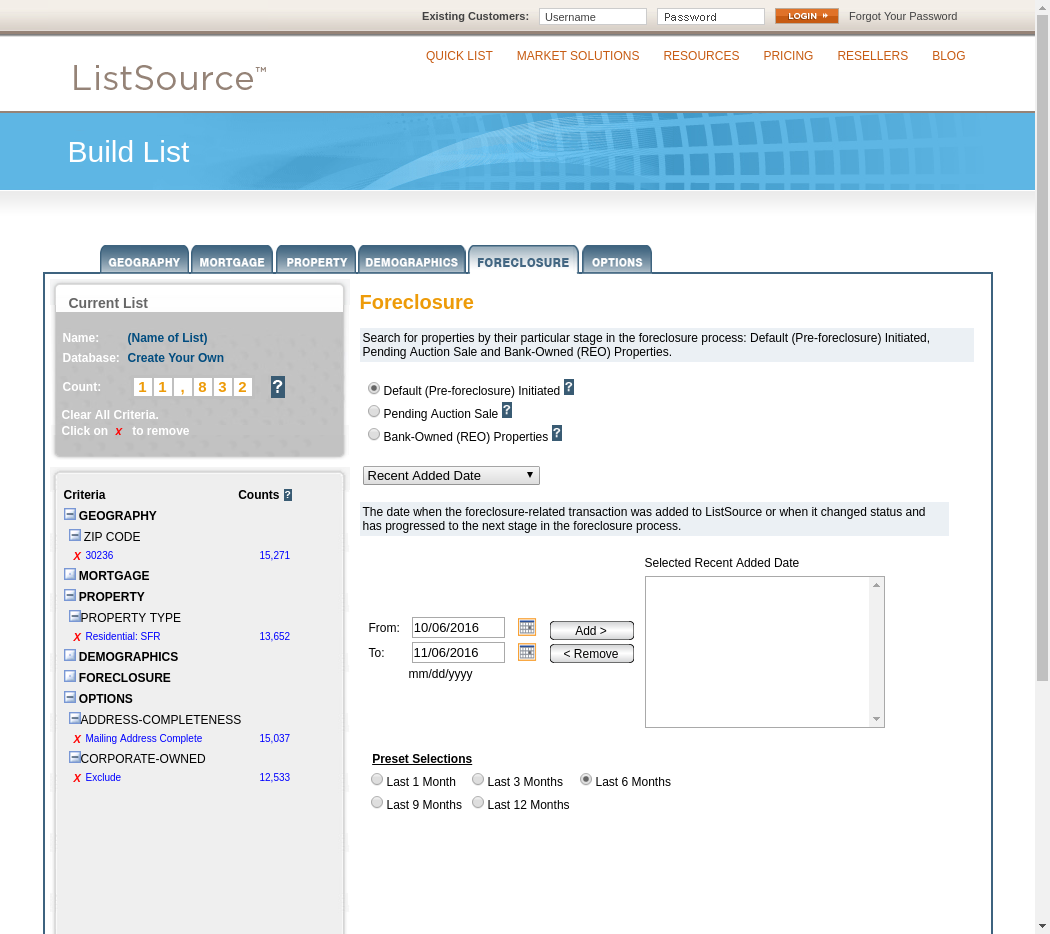
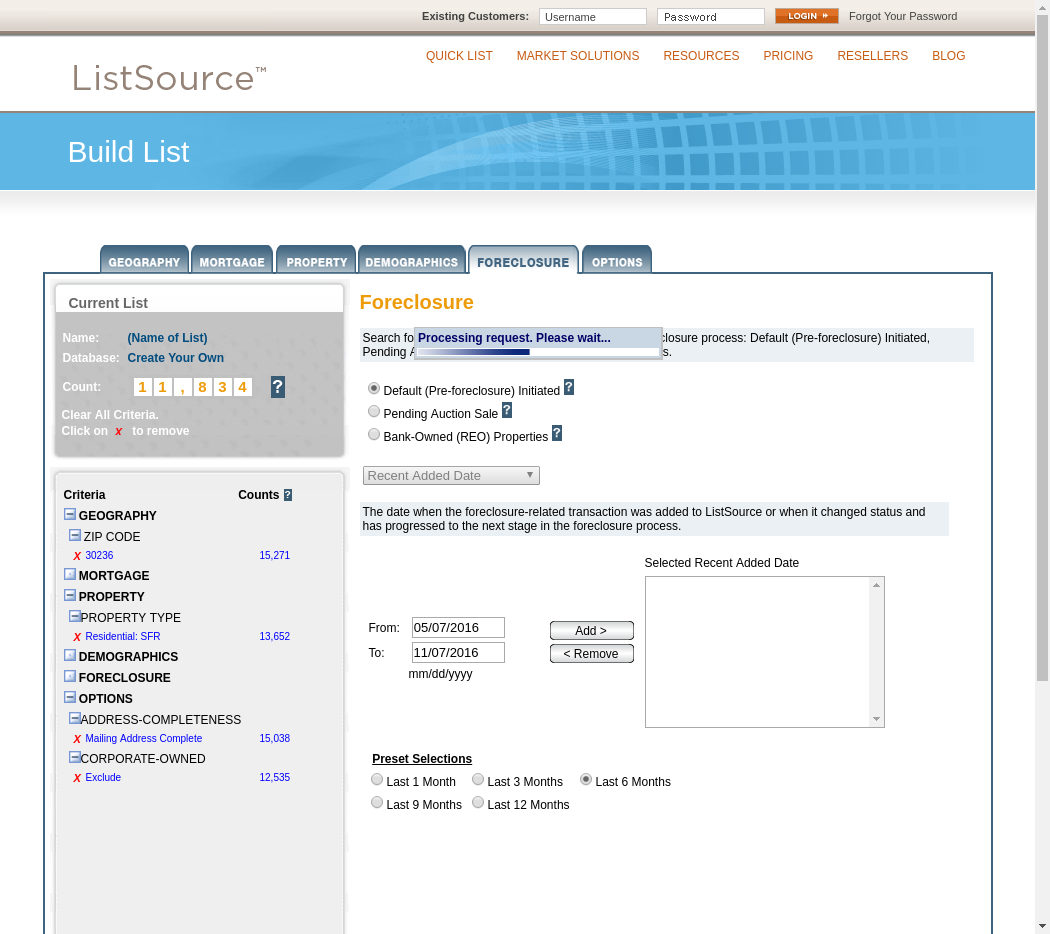
parse listsource

diff --git a/src/App/Services/ParserListsource.php b/src/App/Services/ParserListsource.php
@@ -19,11 +19,12 @@ class ParserListsource extends Parser
 
     public function parse()
     {
-        $driver = new Selenium2Driver('chrome', null, 'http://192.168.99.100:32786/wd/hub');
-        $this->session = new Session($driver);
-        $this->session->start();
+        $this->createSession();
         $this->session->visit($this->url);
         $page = $this->session->getPage();
+
+        $result['p'] = $this->matrixResult['p'];
+        $result['n'] = $this->matrixResult['n'];
 
         $as = $page->findAll('xpath', '//a');
 
@@ -33,19 +34,17 @@ class ParserListsource extends Parser
             }
         }
 
-        $locator = $this->waitUntilExist($page, 'locator'); // working javascript
-        $locator->selectOption("ZIP_CODE");
+        $this->waitUntilExist($page, 'locator')->selectOption("ZIP_CODE"); // working javascript
 
         $zipTextArea = $this->waitUntilExist($page, 'zipTextArea'); // working javascript
         $zipTextArea->setValue($this->zipCode);
 
-        $button = $page->find('xpath', '//button');
-        $button->click(); // add zip code
-
+        $this->waitUntilDisabled($page->find('named', ['id_or_name', 'locator_prop']));
+        $this->scrin(0);
+        $page->find('xpath', '//button')->click(); // add zip code
         $this->waitUntilExist($page, 'CRITERIA_ZIP_CODE_'.$this->zipCode); // working javascript
 
-        $propertyLink = $page->find('named', ['id_or_name', 'img_PROPERTY']);
-        $propertyLink->click(); // click property in left menu
+        $page->find('named', ['id_or_name', 'img_PROPERTY'])->click(); // click property in left menu
         $this->session->wait(1);
 
         $page->find('named', ['id_or_name', 'PROPERTY_PAGE_IMG'])->click(); // click tab property
@@ -54,7 +53,8 @@ class ParserListsource extends Parser
         $page->find('named', ['id_or_name', 'locator_prop'])->selectOption("PROPERTY_TYPE");
 
         $locatorAvailableList_prop = $this->waitUntilExist($page, 'locatorAvailableList_prop'); // working javascript
-        $this->session->wait(5);
+        $this->waitUntilDisabled($locatorAvailableList_prop);
+        $this->session->wait(10);
         $this->scrin(1);
         $locatorAvailableList_prop->selectOption(16, true);
 
@@ -77,29 +77,26 @@ class ParserListsource extends Parser
         }
 
         $result['f'] = $countNewNew; //F in excel
-
 ////////////////////////////////////////////////////////////////////////////////////////////////////////////////////////
 
-        $foreClosureLink = $page->find('named', ['id_or_name', 'FORECLOSURE_PAGE_IMG'])->click();
+        $page->find('named', ['id_or_name', 'FORECLOSURE_PAGE_IMG'])->click();
         $this->session->wait(1);
 
-        $foreClosureSelect = $page->find('named', ['id_or_name', 'locator_foreclosure'])->selectOption('FORE_D_PUB_DT'); // select recent added date
+        $foreClosureSelect = $page->find('named', ['id_or_name', 'locator_foreclosure']);
+        $foreClosureSelect->selectOption('FORE_D_PUB_DT'); // select recent added date
 
         $this->waitUntilExist($page, 'last6_FORE_D_PUB_DT'); // working javascript
-
         $this->session->executeScript("document.getElementById('last6_FORE_D_PUB_DT').click()");
+        $this->scrin(2);
         $this->waitUntilDisabled($foreClosureSelect);
 
         $page->find('named', ['id_or_name', 'mort_add_FORE_D_PUB_DT'])->click();
 
         $dateInputFromValue = $page->find('named', ['id_or_name', 'fromValue_FORE_D_PUB_DT'])->getValue();
         $dateInputToValue = $page->find('named', ['id_or_name', 'toValue_FORE_D_PUB_DT'])->getValue();
-
         $this->waitUntilExist($page, 'CRITERIA_FORE_D_PUB_DT_'.$dateInputFromValue.'-'.$dateInputToValue); // working javascript
 
-        $count = $page->find('named', ['id_or_name', 'td_0']);
-        $result['h'] = $count->getText();
-
+        $result['h'] = $this->parceCount($page);
 ////////////////////////////////////////////////////////////////////////////////////////////////////////////////////////
         $this->scrin(3);
         $bankOwned = $page->find('named', ['id_or_name', 'foreClosurePosition']);
@@ -107,25 +104,21 @@ class ParserListsource extends Parser
 
         $foreClosureSelect = $page->find('named', ['id_or_name', 'locator_foreclosure']);
         $this->waitUntilDisabled($foreClosureSelect);
-
         $foreClosureSelect->selectOption('FORE_R_PUB_DT'); // select recent added date
 
         $this->waitUntilExist($page, 'last6_FORE_R_PUB_DT'); // working javascript
-
-        $this->session->executeScript("document.getElementById('last6_FORE_R_PUB_DT').click()")->click();
+        $this->session->executeScript("document.getElementById('last6_FORE_R_PUB_DT').click()");
         $this->waitUntilDisabled($foreClosureSelect);
-
-        $page->find('named', ['id_or_name', 'mort_add_FORE_R_PUB_DT']);
+        $this->scrin(4);
+        $page->find('named', ['id_or_name', 'mort_add_FORE_R_PUB_DT'])->click();
 
         $dateInputFromValue = $page->find('named', ['id_or_name', 'fromValue_FORE_R_PUB_DT'])->getValue();
         $dateInputToValue = $page->find('named', ['id_or_name', 'toValue_FORE_R_PUB_DT'])->getValue();
         $this->scrin(5);
         $this->waitUntilExist($page, 'CRITERIA_FORE_R_PUB_DT_'.$dateInputFromValue.'-'.$dateInputToValue); // working javascript
 
-        $td0 = $page->find('named', ['id_or_name', 'td_0']);
-        $td1 = $page->find('named', ['id_or_name', 'td_1']);
-        $result['k'] = $td0->getText().$td1->getText();
-
+        $this->scrin("5-1");
+        $result['k'] = $this->parceCount($page);
 ////////////////////////////////////////////////////////////////////////////////////////////////////////////////////////
         $this->scrin(6);
         $default = $page->find('named', ['id_or_name', 'foreClosurePosition']);
@@ -134,43 +127,117 @@ class ParserListsource extends Parser
         $foreClosureSelect = $page->find('named', ['id_or_name', 'locator_foreclosure']);
         $this->waitUntilDisabled($foreClosureSelect);
 
-        $foreClosureLink = $page->find('named', ['id_or_name', 'OPTIONS_PAGE_IMG'])->click();
+        $page->find('named', ['id_or_name', 'OPTIONS_PAGE_IMG'])->click();
         $this->session->wait(1);
 
         $ownerOccupiedStatus = $page->find('named', ['id_or_name', 'ownerOption']);
         $ownerOccupiedStatus->selectOption('OPT_EXCLUDE_OWNER_OCCUPIED');
 
-        $this->waitUntilExist($page, 'CRITERIA_OWNER-OCCUPIED'); // working javascript
+        $this->waitUntilExist($page, 'CRITERIA_OWNER-OCCUPIED_Absentee Owned In-State'); // working javascript CRITERIA_OWNER-OCCUPIED
+
+        $this->session->wait(1);
+        $this->scrin('6-1');
+        $property = $page->find('named', ['id_or_name', 'PROPERTY_PAGE_IMG']);
+        $this->scrin('6-2');
+        $property->click();
+        $this->session->wait(1);
 
         $criteria = $page->find('named', ['id_or_name', 'locator_prop']);
+        $this->waitUntilDisabled($criteria);
         $this->scrin(7);
         $criteria->selectOption("EQUITY_PCT");
 
         $this->waitUntilExist($page, 'fromValue_prop'); // working javascript
+        $locator_prop = $page->find('named', ['id_or_name', 'locator_prop']);
+        $this->waitUntilDisabled($locator_prop); // working javascript
 
+        $this->scrin(8);
         $page->find('named', ['id_or_name', 'fromValue_prop'])->setValue(99);
         $page->find('named', ['id_or_name', 'toValue_prop'])->setValue(100);
         $page->find('named', ['id_or_name', 'addButton_prop'])->click();
 
-        $this->waitUntilExist($page, 'CRITERIA_EQUITY_PCT'); // working javascript
+        $this->scrin('8-1');
+        $this->waitUntilExist($page, 'CRITERIA_EQUITY_PCT_99 to 100 %'); // working javascript
 
-        $page->find('named', ['id_or_name', 'locator_prop'])->selectOption('LAST_SALE_DATE');
+        $locator_prop = $page->find('named', ['id_or_name', 'locator_prop']);
+        $this->waitUntilDisabled($locator_prop);
+        $locator_prop->selectOption('LAST_SALE_DATE');
 
+        $this->scrin('8-2');
         $this->waitUntilExist($page, 'selBox_LAST_SALE_DATE'); // working javascript
+        $this->scrin(9);
 
         $this->session->executeScript("document.getElementById('last6_LAST_SALE_DATE').click()");
-        $page->clickLink('prop_add');
+        $this->waitUntilDisabled($locator_prop);
+        $this->scrin(10);
+        $page->find('named', ['id_or_name', 'prop_add'])->click();
 
-        $this->waitUntilExist($page, 'CRITERIA_LAST_SALE_DATE'); // working javascript
+        $dateInputFromValue = $page->find('named', ['id_or_name', 'fromValue_LAST_SALE_DATE'])->getValue();
+        $dateInputToValue = $page->find('named', ['id_or_name', 'toValue_LAST_SALE_DATE'])->getValue();
+        $this->waitUntilExist($page, 'CRITERIA_LAST_SALE_DATE_'.$dateInputFromValue.'-'.$dateInputToValue); // working javascript
+        $this->scrin(11);
 
-        $count = $page->find('named', ['id_or_name', 'td_0']);
-        $result['c'] = $count->getText();
-
-        file_put_contents("scrin!!!.png", $this->session->getScreenshot());
-
-
+        $result['c'] = $this->parceCount($page);
 ////////////////////////////////////////////////////////////////////////////////////////////////////////////////////////
+        $this->removeCriteria($page, 'DEL_ID_CRITERIA_EQUITY_PCT_99 to 100 %');
+        $this->scrin(12);
 
+        $this->removeCriteria($page, 'DEL_ID_CRITERIA_LAST_SALE_DATE_'.$dateInputFromValue.'-'.$dateInputToValue);
+        $this->scrin(13);
+
+        $this->removeCriteria($page, 'DEL_ID_CRITERIA_OWNER-OCCUPIED_Absentee Owned In-State');
+        $this->scrin(14);
+
+        $this->removeCriteria($page, 'DEL_ID_CRITERIA_OWNER-OCCUPIED_Absentee Owned Out-of-State');
+        $this->scrin(15);
+
+        $criteria = $page->find('named', ['id_or_name', 'locator_prop']);
+        $this->waitUntilDisabled($criteria);
+        $this->scrin(16);
+        $criteria->selectOption("EQUITY_PCT");
+
+        $this->waitUntilExist($page, 'fromValue_prop'); // working javascript
+        $locator_prop = $page->find('named', ['id_or_name', 'locator_prop']);
+        $this->waitUntilDisabled($locator_prop); // working javascript
+
+        $selectEqu = $page->find('named', ['id_or_name', 'locatorAvailableList_prop']);
+        $selectEqu->selectOption('4-4', true);
+        $selectEqu->selectOption('5-5', true);
+        $selectEqu->selectOption('6-6', true);
+        $selectEqu->selectOption('7-7', true);
+        $selectEqu->selectOption('8-8', true);
+        $selectEqu->selectOption('9-9', true);
+        $selectEqu->selectOption('10-10', true);
+        $page->find('named', ['id_or_name', 'prop_add'])->click();
+
+        $this->scrin(17);
+        $this->waitUntilDisabled($locator_prop);
+        $criteria->selectOption("CURRENT_HOME_VALUE");
+        $this->waitUntilDisabled($locator_prop);
+
+        $page->find('named', ['id_or_name', 'fromValue_prop'])->setValue(1);
+        $page->find('named', ['id_or_name', 'toValue_prop'])->setValue($result['p']);
+        $page->find('named', ['id_or_name', 'addButton_prop'])->click();
+        $this->waitUntilDisabled($locator_prop); // working javascript
+
+        $this->scrin(18);
+        $result['r'] = $this->parceCount($page);
+////////////////////////////////////////////////////////////////////////////////////////////////////////////////////////
+        $priceSelect = $page->find('named', ['id_or_name', 'locatorSelectedList_prop']);
+        $priceSelect->selectOption("1-".$result['p'], true);
+        $page->find('named', ['id_or_name', 'prop_remove'])->click();
+        $this->waitUntilDisabled($locator_prop);
+        $this->scrin(19);
+
+        $newPrice = round($result['p']*0.33);
+        $page->find('named', ['id_or_name', 'fromValue_prop'])->setValue(1);
+        $page->find('named', ['id_or_name', 'toValue_prop'])->setValue($newPrice);
+        $page->find('named', ['id_or_name', 'addButton_prop'])->click();
+        $this->waitUntilDisabled($locator_prop); // working javascript
+
+        $this->scrin(20);
+////////////////////////////////////////////////////////////////////////////////////////////////////////////////////////
+        $this->scrin("scrin!!!");
         VarDumper::dump($result);
 
         exit;
@@ -183,33 +250,52 @@ class ParserListsource extends Parser
 
     private function parceCount($page)
     {
+        $result = [];
         $sing1 = $page->find('named', ['id_or_name', 'td_0']);
-        $sing1 = $this->getTextValue($sing1);
-        $sing2 = $page->find('named', ['id_or_name', 'td_1']);
-        $sing2 = $this->getTextValue($sing2);
-        #$sing3 = $page->find('named', ['id_or_name', 'td_2']);
-        #$sing3 = $sing3->getText();
-        $sing4 = $page->find('named', ['id_or_name', 'td_3']);
-        $sing4 = $this->getTextValue($sing4);
-        $sing5 = $page->find('named', ['id_or_name', 'td_4']);
-        $sing5 = $this->getTextValue($sing5);
-        $sing6 = $page->find('named', ['id_or_name', 'td_5']);
-        $sing6 = $this->getTextValue($sing6);
+        $result[] = $this->getTextValue($sing1);
 
-        return $sing1.$sing2.$sing4.$sing5.$sing6;
+        $sing2 = $page->find('named', ['id_or_name', 'td_1']);
+        $result[] = $this->getTextValue($sing2);
+
+        $sing3 = $page->find('named', ['id_or_name', 'td_2']);
+        $result[] = $sing3->getText();
+
+        $sing4 = $page->find('named', ['id_or_name', 'td_3']);
+        $result[] = $this->getTextValue($sing4);
+
+        $sing5 = $page->find('named', ['id_or_name', 'td_4']);
+        $result[] = $this->getTextValue($sing5);
+
+        $sing6 = $page->find('named', ['id_or_name', 'td_5']);
+        $result[] = $this->getTextValue($sing6);
+
+        $sing7 = $page->find('named', ['id_or_name', 'td_6']);
+        $result[] = $this->getTextValue($sing7);
+
+        $out = '';
+        foreach ($result as $res) {
+            if ($res) {
+                $out .= $res;
+            }
+        }
+
+        return $out;
     }
 
     private function getTextValue($sing)
     {
+        if (is_null($sing)) {
+            $val = null;
+        }
         if ($sing instanceof NodeElement) {
             try {
                 $val = $sing->getText();
             } catch (Exception $e) {
-                $val = 0;
+                $val = null;
             }
 
         } else {
-            $val = 0;
+            $val = null;
         }
         return $val;
     }

diff --git a/src/App/Services/Parser.php b/src/App/Services/Parser.php
@@ -3,10 +3,12 @@
 namespace App\Services;
 
 use Behat\Mink\Session;
+use Behat\Mink\Driver\Selenium2Driver;
 
 abstract class Parser
 {
     protected $zipCode;
+    protected $matrixResult;
 
     /** @var Session $session */
     protected $session;
@@ -29,6 +31,18 @@ abstract class Parser
         $this->zipCode = $zipCode;
     }
 
+    public function setMatrixResult($result)
+    {
+        $this->matrixResult = $result;
+    }
+
+    protected function createSession()
+    {
+        $driver = new Selenium2Driver('chrome', null, 'http://192.168.99.100:32795/wd/hub');
+        $this->session = new Session($driver);
+        $this->session->start();
+    }
+
     protected function scrin($name)
     {
         file_put_contents($name.".png", $this->session->getScreenshot());
@@ -37,7 +51,7 @@ abstract class Parser
     protected function waitUntilDisabled($object)
     {
         $js = "";
-        while (!is_null($js)) { // working javascript
+        while (!is_null($js)) {
             $js = $object->getAttribute('disabled');
             $this->session->wait(1);
         }
@@ -62,5 +76,12 @@ abstract class Parser
             $this->session->wait(1);
         }
         return $object;
+    }
+
+    protected function removeCriteria($page, $id)
+    {
+        $el = $page->find('named', ['id_or_name', $id]);
+        $el->click();
+        $this->waitUntilNull($page, $id);
     }
 }

diff --git a/src/App/Controller/MicroController.php b/src/App/Controller/MicroController.php
@@ -41,10 +41,11 @@ class MicroController extends Controller
         $codes = explode(",", $codes);
 
         foreach ($codes as $code) {
-            #$parserMlsmatrix->setZipCode($code);
-            #$matrixData = $parserMlsmatrix->parse();
+            $parserMlsmatrix->setZipCode($code);
+            $matrixData = $parserMlsmatrix->parse();
 
             $parserListsource->setZipCode($code);
+            $parserListsource->setMatrixResult($matrixData);
             $parserListsource->parse();
         }
         exit;

diff --git a/src/App/Services/ParserMlsmatrix.php b/src/App/Services/ParserMlsmatrix.php
@@ -96,10 +96,7 @@ class ParserMlsmatrix extends Parser
 
     protected function auth()
     {
-        $driver = new Selenium2Driver('chrome', null, 'http://192.168.99.100:32795/wd/hub');
-        $this->session = new Session($driver);
-        $this->session->start();
-
+        $this->createSession();
         $this->session->visit($this->urlLogin);
         $page = $this->session->getPage();
 
